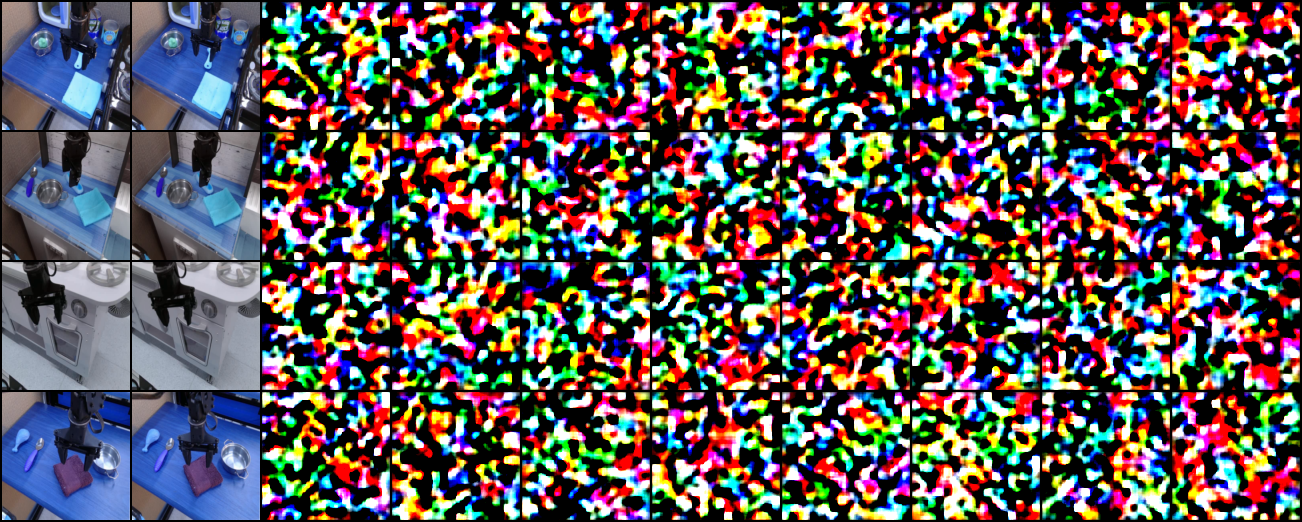
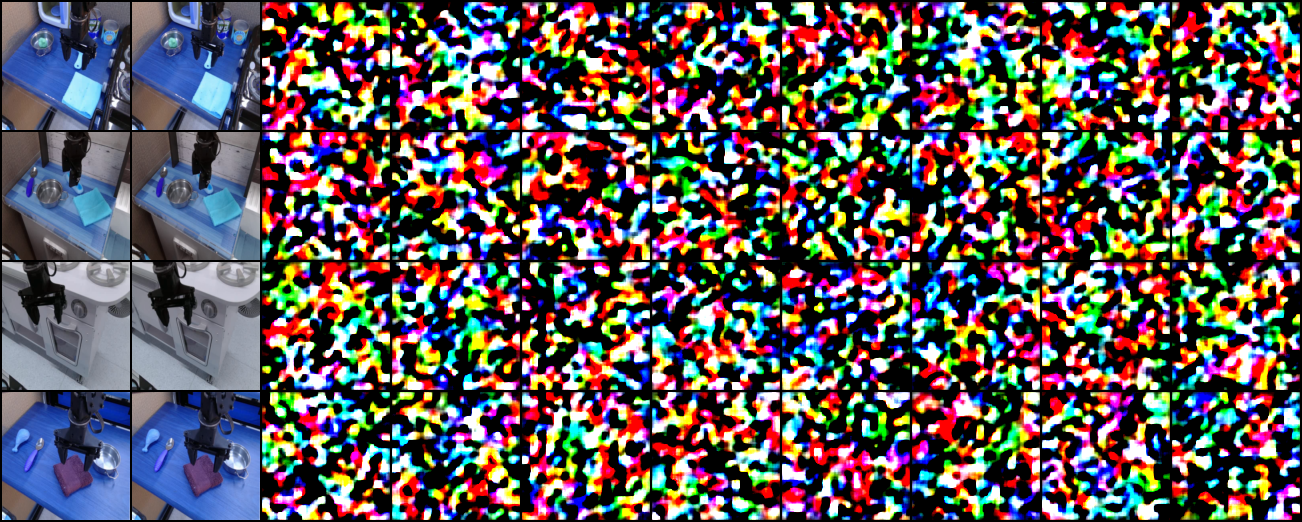
added rework to MC

diff --git a/src/trainer_dit_seq_scene_mc.py b/src/trainer_dit_seq_scene_mc.py
@@ -6,6 +6,7 @@ import torch.distributed as dist
 from torch.nn.parallel import DistributedDataParallel as DDP
 from tqdm import tqdm
 from src.dataset.data_set_seq_scene import RobotDatasetSeqSceneCanny
+from src.dataset.data_set_bridge import BridgeDatasetMC
 from src.models.diffusion_frame_pred import (
     DiTActionSeqISimMultiCondi,
     LinearDiTActionMultiCondi,
@@ -25,7 +26,7 @@ import wandb
 import yaml
 from einops import rearrange
 import os
-from .utils import update_ema, requires_grad
+from .utils import update_ema, requires_grad, NormalizeVideo
 from src.metrics.video_metrics import VideoMetrics
 
 
@@ -88,18 +89,18 @@ class DiTTrainerSceneMC(TrainerBase):
         transform = transforms.Compose(
             [
                 transforms.ToTensor(),
+                NormalizeVideo(),
                 # transforms.RandomHorizontalFlip(),
-                transforms.Resize(self.image_size),
-                # transforms.CenterCrop(self.image_size),
-                transforms.Normalize((0.5, 0.5, 0.5), (0.5, 0.5, 0.5)),
+                transforms.Resize((self.image_size, self.image_size)),
+                # transforms.Normalize((0.5, 0.5, 0.5), (0.5, 0.5, 0.5)),
             ]
         )
 
         # Load dataset
-        self.dataset = RobotDatasetSeqSceneCanny(
-            data_path=self.data_path,
+        self.dataset = BridgeDatasetMC(
+            json_dir=self.data_path,
             transform=transform,
-            seq_l=model_config["seq_len"],
+            sequence_length=model_config["seq_len"],
         )
         self.sampler = DistributedSampler(
             self.dataset,
@@ -119,10 +120,14 @@ class DiTTrainerSceneMC(TrainerBase):
             drop_last=True,
             # collate_fn=collate_fn,
         )
-        self.val_dataset = val_dataset
+        self.val_dataset = BridgeDatasetMC(
+            json_dir=self.data_path,
+            transform=transform,
+            sequence_length=model_config["seq_len"],
+        )
         self.val_loader = (
-            DataLoader(val_dataset, batch_size=32, shuffle=False)
-            if val_dataset
+            DataLoader(self.val_dataset, batch_size=32, shuffle=False)
+            if self.val_dataset
             else None
         )
         self.criterion = nn.MSELoss()
@@ -287,8 +292,13 @@ class DiTTrainerSceneMC(TrainerBase):
         self.model_ddp.train()
         return running_loss / step_val
 
-    def _save_checkpoint(self):
-        torch.save(self.model_ddp.state_dict(), "best_model.pth")
+    def _save_checkpoint(self, step):
+        checkpoint = {
+            "model": self.model_ddp.module.state_dict(),
+            "ema": self.ema.state_dict(),
+            "opt": self.optimizer.state_dict(),
+        }
+        torch.save(checkpoint, f"checkpoints/scene_mc_epoch_{step}.pth")
 
     def save_image_actions(self, step, x, frames, actions_real, canny):
         model_kwargs = dict(

diff --git a/src/trainer_dit_seq_scene.py b/src/trainer_dit_seq_scene.py
@@ -103,16 +103,16 @@ class DiTTrainerScene(TrainerBase):
         )
 
         # Load dataset
-        self.dataset = RobotDatasetSeqScene(
-            data_path=self.data_path,
-            transform=transform,
-            seq_l=model_config["seq_len"],
-        )
-        # self.dataset = BridgeDataset(
-        #     json_dir=self.data_path,
+        # self.dataset = RobotDatasetSeqScene(
+        #     data_path=self.data_path,
         #     transform=transform,
-        #     sequence_length=model_config["seq_len"],
+        #     seq_l=model_config["seq_len"],
         # )
+        self.dataset = BridgeDataset(
+            json_dir=self.data_path,
+            transform=transform,
+            sequence_length=model_config["seq_len"],
+        )
 
         self.sampler = DistributedSampler(
             self.dataset,
@@ -132,16 +132,16 @@ class DiTTrainerScene(TrainerBase):
             drop_last=True,
             # collate_fn=collate_fn,
         )
-        # self.val_dataset = BridgeDataset(
-        #     json_dir=self.data_path,
-        #     transform=transform,
-        #     sequence_length=model_config["seq_len"],
-        # )
-        self.val_dataset = RobotDatasetSeqScene(
-            data_path=self.data_path,
+        self.val_dataset = BridgeDataset(
+            json_dir=self.data_path,
             transform=transform,
-            seq_l=model_config["seq_len"],
+            sequence_length=model_config["seq_len"],
         )
+        # self.val_dataset = RobotDatasetSeqScene(
+        #     data_path=self.data_path,
+        #     transform=transform,
+        #     seq_l=model_config["seq_len"],
+        # )
         self.val_loader = (
             DataLoader(self.val_dataset, batch_size=16, shuffle=False)
             if self.val_dataset is not None
@@ -385,14 +385,14 @@ class DiTTrainerScene(TrainerBase):
             videos,
             self.eval_save_gen_dir + f"_{step}.png",
             nrow=self.config["model"]["seq_len"],
-            normalize=True,
+            normalize=False,
             # value_range=(-1, 1),
         )
         save_image(
             true_video,
             self.eval_save_real_dir + f"_{step}.png",
             nrow=self.config["model"]["seq_len"],
-            normalize=True,
+            normalize=False,
             # value_range=(-1, 1),
         )
 

diff --git a/src/dataset/data_set_bridge.py b/src/dataset/data_set_bridge.py
@@ -156,9 +156,8 @@ class BridgeDatasetMC(BridgeDataset):
         video_sequence = torch.stack(video_sequence)
         # state_sequence = torch.tensor(state_sequence, dtype=torch.float32)
         actions_sequence = torch.tensor(actions_sequence, dtype=torch.float32)
-        first_frame = video_sequence[0]
         
-        return first_frame, video_sequence, actions_sequence, normals_v
+        return video_sequence, actions_sequence, normals_v
 
 
 if __name__ == "__main__":

diff --git a/src/dataset/data_set_seq_scene.py b/src/dataset/data_set_seq_scene.py
@@ -194,10 +194,9 @@ def collate_fn(batch):
         padded_next_images.append(padded_seq)
 
     padded_next_images = torch.stack(padded_next_images)
-    current_images = torch.stack(current_images)
     actions = torch.stack(actions)
 
-    return current_images, padded_next_images, actions
+    return padded_next_images, actions
 
 
 if __name__ == "__main__":
